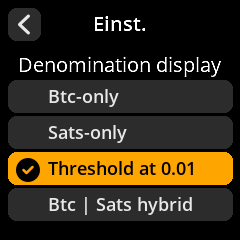
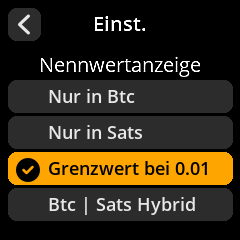
DE update

diff --git a/de/README.md b/de/README.md
@@ -1,5 +1,5 @@
 # SeedSigner Screenshots: German
-## Translation progress: 2.1%
+## Translation progress: 100.0%
 
 ---
 
